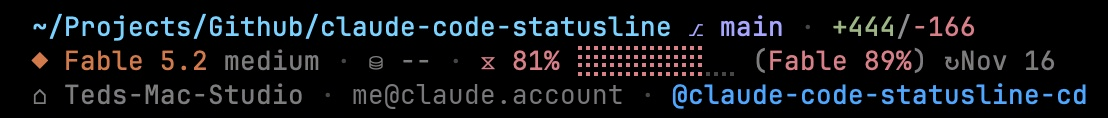
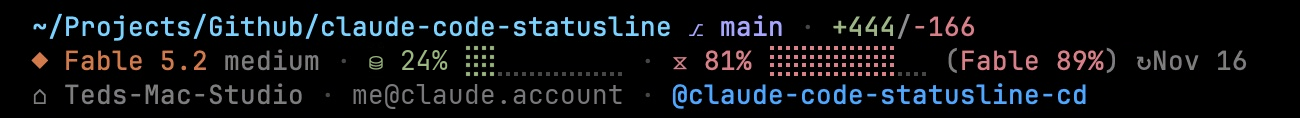
docs+perf: desktop screenshot with context, mobile-friendly highlight, README brought in line
- Desktop screenshot now shows a context reading and bar, like the phone one.
- README: lead with mobile friendliness (links herdr), and bring the feature
  list, element table, customization and troubleshooting in line with the
  three-row layout, width fitting, the per-model weekly limit and accounts
  that report no 5-hour window.
- Remember each formatted reset time within a render: a narrow terminal
  rebuilds row 2 several times, and on bash 3.2 each format was a `date` fork
  (33 ms -> 26 ms per render at phone width on stock macOS bash).

Claude-Session: https://claude.ai/code/session_01DdSiv6bK9xfXWuZ78hcxgt

Changed region(s): [[0.0, 0.3814, 0.9819, 0.661], [0.0307, 0.7119, 0.9819, 0.9153], [0.0, 0.1017, 0.8899, 0.3559]]

diff --git a/README.md b/README.md
@@ -2,13 +2,15 @@
 
 A compact, three-row statusline for [Claude Code](https://claude.com/claude-code) written in bash. Shows where you are, what's running and how much is left, and who you are: which computer, which Claude account, which session.
 
+**Mobile friendly.** The rows fit themselves to the terminal's width, so the same statusline stays readable from a wide desktop terminal down to a phone — for example when you check on a session from [herdr](https://herdr.dev)'s mobile app. Nothing is cut off: rows shorten, then wrap.
+
 ## Screenshots
 
 **Desktop**
 
 ![Three-row statusline in a desktop terminal: folder, branch and lines changed; then the model and effort, context, and the weekly usage bar with the model's own weekly limit in parentheses and the reset date; then the computer, the account and the session's messaging name](screenshot.png)
 
-A wide terminal gets the three rows in full: the whole path, the 10-cell usage bar, and the computer, account and messaging name together on the last row. This account has no 5-hour window, so only the weekly gauge shows — past 80%, so it's red — with the model's own weekly limit in parentheses. Context reads `--` because the session hasn't had its first response yet.
+A wide terminal gets the three rows in full: the whole path, the 10-cell bars, and the computer, account and messaging name together on the last row. This account has no 5-hour window, so only the weekly gauge shows — past 80%, so it's red — with the model's own weekly limit in parentheses.
 
 **Phone**
 
@@ -40,17 +42,18 @@ On a narrow terminal — a phone, a small split — the rows adapt instead of be
 
 ## Features
 
+- **Mobile friendly** — the statusline reads the terminal width Claude Code gives it and fits each row to it, so it works in a phone-width terminal such as [herdr](https://herdr.dev)'s mobile app as well as on a desktop. See *Three rows, fitted to the terminal* below for the steps, and the phone screenshot above for the result.
 - **Computer and account** — row 3 opens with the computer's name (`⌂ Teds-Mac-Studio`) and the email of the Claude account that's logged in, so sessions on different machines or different logins are never mistaken for each other. The computer name is bash's own `$HOSTNAME` trimmed at the first dot (no process started); the email comes from the same `~/.claude.json` lookup that already keys the rate limits by account, so it costs nothing extra and follows a `/login` within 5 seconds. With API-key auth there's no account to show and the segment is skipped. `CLAUDE_SL_HOST` and `CLAUDE_SL_ACCOUNT_LABEL` override what's displayed (set either to an empty string to hide it); `CLAUDE_SL_IDENTITY=0` hides both — handy before a screen share.
 - **Messaging name** — the session's name that other Claude Code sessions use to message it (`@loretta-76`, `@claude-code-statusline-d4`) ends row 3 — reference info you look up when you need it. Claude Code doesn't put it in the statusline payload, so it's read from the session's own record in `~/.claude/sessions/<pid>.json` (matched on `sessionId`; `CLAUDE_CONFIG_DIR` relocates it). The `@` marks it as an address. Older versions that don't write a name fall back to the first 8 characters of the session UUID, shown as `#abc12345` — `#` for an id you can't message.
 - **Update-ready indicator** — the version is hidden while you're up to date. When a newer Claude Code is installed than the one running, a green `v2.1.297 ↑` appears at the end of row 2: the version a restart will bring. Detected by reading the versioned symlink target, no subprocess spawn. Installs whose `claude` symlink doesn't end in a version (npm, Homebrew) show no indicator.
 - **Graceful degradation** — every element is conditional. If a field is missing from the input JSON (older Claude Code versions, pending data before the first API response, etc.), the section is silently skipped rather than showing `null` or `0`. A field of an unexpected *type* is treated the same way, one field at a time, so a payload change in a future Claude Code version can't blank the rest of the line. If `jq` itself can't be found, the statusline says so instead of rendering empty gauges.
 - **Worktree-aware location** — inside a linked git worktree, an `↳ wt-name` label sits between the directory and the branch (`~/repo ↳ wt-name ⎇ feat`); the main checkout shows just the directory and branch. The label is skipped when the folder already ends in that name (`~/…/worktree02 ⎇ feat`, not `~/…/worktree02 ↳ worktree02 ⎇ feat`). Detection is from the worktree's git-dir, so it works however the worktree was created, but the label is the checkout directory's own name — git's internal worktree id is a sanitized, de-duplicated basename that can degrade to `0` or `-`.
 - **Color-coded progress bars** — 10-cell braille blocks (`⣿⣀`) at 10% increments for context usage and both rate windows, with the percentage to the left: green under 50%, yellow 50–79%, red 80% and up. Only the used cells take the color; the empty track is dark grey, so a low reading is a short stub rather than a full-width colored line. The gap-free fill mirrors Claude Code's own `/usage` bars.
-- **Both rate windows** — the 5-hour session window (`⏱`) and the 7-day weekly window (`⧖`) each get their own bar and reset time. Either window is rendered only when Claude Code sends it (they can be independently absent), so the weekly segment simply doesn't appear until there's data. Inspired by [claude-pace](https://github.com/Astro-Han/claude-pace).
+- **Both rate windows** — the 5-hour session window (`⏱`) and the 7-day weekly window (`⧖`) each get their own bar and reset time. Either window is rendered only when the account has it: they can be independently absent, and some plans report a weekly limit with no 5-hour window at all, in which case only the weekly gauge shows. The statusline never looks at the plan — it shows whichever windows are reported. Inspired by [claude-pace](https://github.com/Astro-Han/claude-pace).
 - **Absolute reset times** — each rate window shows *when* it resets, like the `/usage` view: `↻8:10pm` if it resets later today, `↻Jun 1` if it resets on another day. In a locale with no am/pm (German, French, …) the time is 24-hour, `↻20:10`. No pacing or projection math — just how much you've used and when it comes back.
 - **Rate limits synced across sessions** — Claude Code only refreshes `rate_limits` after an API call, so a fresh session (or a fresh login) shows nothing and an idle session keeps replaying whatever it last saw — a window that already reset, a pegged 100%, the numbers from before a limit boost. Nothing in the payload says *when* those numbers were fetched, so the script measures it: a process only changes its rate limits when a new response arrives, so a value that differs from what that session reported on its previous tick was fetched now, and an unchanged value is a replay that keeps its original fetch time. Every session records what it last reported (per session id) and publishes its observation to a tiny shared file; every render shows whichever observation — this payload's or the shared file's — was fetched later. Freshness is never guessed from the numbers themselves (an earlier "usage only grows" rule pinned a spent window at 100% after Anthropic boosted the limit, while `/usage` showed 1%). A new session inherits the last-known usage and reset time immediately, a stale session re-syncs the moment any other session gets fresh data, and once a window's `resets_at` passes it rolls over to `0%` instead of freezing at its final stale value.
 - **Per-account rate limits** — rate limits belong to a Claude account, and `/login` switches every running session at once, so the shared snapshot is keyed by the account in `~/.claude.json`. Sessions started with different `CLAUDE_CONFIG_DIR`s are separate logins running side by side: each resolves its own account, and reads its own profile's token for the usage endpoint. Log into another account and the bars start clean (`⏱ --`) instead of showing the account you just left; log back in and that account's own last-known usage is restored immediately rather than waiting for the next API response. Claude Code keeps rate limits in memory per process, so sessions that were already running keep replaying the previous account's numbers until their next API call — the per-session record remembers which account those numbers were fetched under, so an unchanged replay after a switch is attributed to the old account and ignored: it never renders and never poisons the new account's snapshot. The session's first *changed* response after the switch is trusted as the new account's. (A payload from a session with no record yet that matches another account's snapshot exactly — same used% *and* the same reset second — is caught the same way.)
-- **Idle-proof usage** — header-fed numbers can only change when some session makes an API call, so if every session is idle when Anthropic boosts or resets a limit nothing would move. The statusline therefore also asks the same endpoint the `/usage` view reads (`GET https://api.anthropic.com/api/oauth/usage`, using the OAuth token Claude Code already holds) — but only when the newest observation on hand is older than 3 minutes, so an active session never triggers it (headers refresh every turn) and an idle one costs a single call per interval. The call runs detached in the background, never blocks a tick, is shared across sessions with a lock, backs off for 10 minutes after any failure (1 minute while the token is merely expired), and its result is just one more timestamped observation that wins only when it is genuinely the newest. Disable with `CLAUDE_SL_USAGE_TTL=0`.
+- **Idle-proof usage** — header-fed numbers can only change when some session makes an API call, so if every session is idle when Anthropic boosts or resets a limit nothing would move. The statusline therefore also asks the same endpoint the `/usage` view reads (`GET https://api.anthropic.com/api/oauth/usage`, using the OAuth token Claude Code already holds) — but only when the newest observation on hand is older than 3 minutes, so an active session never triggers it (headers refresh every turn) and an idle one costs a single call per interval. (The one exception: an account with a per-model weekly limit is asked every 5 minutes even while active, because that figure comes from nowhere else.) The call runs detached in the background, never blocks a tick, is shared across sessions with a lock, backs off for 10 minutes after any failure (1 minute while the token is merely expired), and its result is just one more timestamped observation that wins only when it is genuinely the newest. Disable with `CLAUDE_SL_USAGE_TTL=0`.
 - **Per-model weekly limit** — some accounts have a weekly allowance for one model family on top of the all-models one, and it can run out first. Claude Code's statusline payload doesn't carry it, but the usage endpoint does, so when the model you're running has one it rides inside the weekly segment in parentheses, in its own threshold color: `⧖ 81% ⣿⣿⣿⣿⣿⣿⣿⣿⣀⣀ (Fable 89%) ↻Nov 16`. The two normally reset together, so the one `↻` covers both; if the model's limit resets at a different time, that time is shown inside the parentheses. Because the endpoint is the only source, an account with such a limit is re-asked every 5 minutes even while active, so the figure can lag by up to that long.
 - **Clamped percentages** — context and rate usage can come off the wire fractionally over 100 when fully spent (rendering as `101%`); everything is clamped to 0–100. Rounding doesn't depend on the locale (`printf` rejects `42.6` where the decimal separator is a comma).
 - **Compact model name** — strips the `Claude ` prefix and collapses any `(1M context)` / `(200K context)` annotation to a bare size token, so `Claude Opus 4.7 (1M context)` shows as `Opus 4.7 1M` and `Claude Sonnet 4.6` as `Sonnet 4.6`.
@@ -77,9 +80,9 @@ Row 1 holds the directory through lines changed, row 2 the model through the pen
 | **Effort level** | `high` | grey | Right after the model name (`◆ Opus 4.7 1M high`), only when an effort level is set. |
 | **Output style** | `☰Explanatory` | grey | After the effort level (`◆ Opus 5.5 medium ☰Learning`). Hidden when the style is `default`. |
 | **Fast mode** | `fast` | grey | After the effort level, only while fast mode is on. |
-| **Context usage** | `⛁ 23% ⣿⣿⣀⣀⣀⣀⣀⣀⣀⣀` | green / yellow / red | Percent of the context window consumed by the current conversation, with a 10-cell bar. Shows `⛁ --` before the first API response. |
+| **Context usage** | `⛁ 23% ⣿⣿⣀⣀⣀⣀⣀⣀⣀⣀` | green / yellow / red | Percent of the context window consumed by the current conversation, with a 10-cell bar (5 cells, then none, as the terminal narrows). Shows `⛁ --` before the first API response. |
 | **5-hour window** | `⏱ 74% ⣿⣿⣿⣿⣿⣿⣿⣀⣀⣀ ↻8:10pm` | green / yellow / red | Percent of the 5-hour rate limit used (clamped to 100). Claude Pro/Max only. Before the first API response it inherits the last-known snapshot from any other session **on the same account**; shows `⏱ --` only when nothing is known about either window (including right after switching accounts). When the weekly window is known but the account has no 5-hour window — the usage endpoint reports it as `null` — the segment is left out. Appends the reset time when `resets_at` is present — see below. |
-| **7-day window** | `⧖ 36% ⣿⣿⣿⣿⣀⣀⣀⣀⣀⣀ ↻Jun 1` | green / yellow / red | Percent of the 7-day (weekly) rate limit used, read from `rate_limits.seven_day` (clamped to 100). Same bar, reset time, and cross-session sync as the 5-hour window, distinguished by the `⧖` glyph. Silently skipped when the weekly window is absent from both the payload and the shared snapshot. |
+| **7-day window** | `⧖ 36% ⣿⣿⣿⣿⣀⣀⣀⣀⣀⣀ ↻Jun 1` | green / yellow / red | Percent of the 7-day (weekly) rate limit used, read from `rate_limits.seven_day` (clamped to 100). Same bar, reset time, and cross-session sync as the 5-hour window, distinguished by the `⧖` glyph. Silently skipped when the weekly window is absent from both the payload and the shared snapshot. The running model's own weekly limit, if the account has one, appears in parentheses between the bar and the reset time. |
 | **Model weekly limit** | `(Fable 89%)` | green / yellow / red | Inside the 7-day segment, between the bar and the reset time. The running model's own weekly limit, from the usage endpoint's `weekly_scoped` entries. Only shown when the account has one for this model; needs the usage endpoint (not `CLAUDE_SL_USAGE_TTL=0`). |
 | **Reset time** | `↻8:10pm` / `↻Jun 1` | grey | When the rate window resets, read from `resets_at`. Shows the clock time if it resets later today, otherwise the month + day. Hidden if the reset is further out than the window itself. If the reset has already *passed*, the window rolled over — the segment shows `0%` with no `↻` (the new window's anchor is unknown until the next API response). |
 | **Pending update** | `v2.1.297 ↑` | green | Only when the installed Claude Code differs from the running one; shows the installed version, which a restart switches to. Hidden otherwise. |
@@ -130,7 +133,7 @@ Restart Claude Code (or open a new session) and the statusline should appear at 
 
 ### Testing
 
-A test suite covering 105 checks (full payloads, boundary values, missing fields, model-name shortening, braille bars, absolute reset times, percentage clamping, cross-session rate sync, boosted/reset limits, the usage endpoint (fixture-fed, non-blocking, backoff), per-account rate isolation, the weekly window, worktree labelling, lines-since-fork with a stale local `main`, instant refresh on branch switch, stacked branches under every parent convention (including the creation reflog, in a linked worktree, and after merging `main`), rapid redraws, performance, and portability: comma-decimal and no-am/pm locales, wrong-shaped payloads, a missing or shimmed `jq`, npm/Homebrew installs, very deep paths, side-by-side `CLAUDE_CONFIG_DIR` profiles, shared or unusable temp dirs, the identity row, and fitting to wide, medium and phone widths) is included:
+A test suite covering 105 checks (full payloads, boundary values, missing fields, model-name shortening, braille bars, absolute reset times, percentage clamping, cross-session rate sync, boosted/reset limits, the usage endpoint (fixture-fed, non-blocking, backoff), per-account rate isolation, the weekly window, worktree labelling, lines-since-fork with a stale local `main`, instant refresh on branch switch, stacked branches under every parent convention (including the creation reflog, in a linked worktree, and after merging `main`), rapid redraws, performance, and portability: comma-decimal and no-am/pm locales, wrong-shaped payloads, a missing or shimmed `jq`, npm/Homebrew installs, very deep paths, side-by-side `CLAUDE_CONFIG_DIR` profiles, shared or unusable temp dirs, the identity row, and fitting to wide, medium and phone widths, an account with no 5-hour window, and the per-model weekly limit) is included:
 
 ```sh
 bash ~/claude-statusline/test-statusline.sh
@@ -151,7 +154,7 @@ All the meaningful knobs are in the top of `statusline-command.sh`:
 - **Rate snapshot location** — every cache lives in `$TMPDIR` when that directory is private to you (macOS). Where the temp dir is shared — `$TMPDIR` unset on Linux, or pointing at a sticky directory like `/tmp` — they go in a `claude-sl-<uid>` subdirectory (mode 700, used only if you own it), and if the temp dir is missing or read-only, in `${XDG_CACHE_HOME:-~/.cache}/claude-sl`. The shared cross-session rate file is `claude-sl-rate-<account-uuid>` (used%, reset time, and fetch time for each window), next to a `claude-sl-account` file (one per `CLAUDE_CONFIG_DIR`) caching which account is logged in (5-second TTL, so a `/login` is picked up almost immediately) and one `claude-sl-seen-<session-id>` record per session holding what that session last reported and when it was fetched. Set `CLAUDE_SL_CACHE_DIR` to move all of them (the test suite uses this for isolation). Delete a snapshot to reset the sync state for that account. Logged out — or authenticating with an API key, which has no subscription rate limits — falls back to the unsuffixed `claude-sl-rate`.
 - **Account identity** — read from `oauthAccount` in `$CLAUDE_CONFIG_DIR/.claude.json` (defaults to `~/.claude.json`). Set `CLAUDE_SL_ACCOUNT` to pin it yourself and skip that lookup entirely (row 3 then shows an account only if `CLAUDE_SL_ACCOUNT_LABEL` is set).
 - **Row 3** — `CLAUDE_SL_HOST="Studio"` replaces the computer name, `CLAUDE_SL_ACCOUNT_LABEL="work"` replaces the email, and `CLAUDE_SL_IDENTITY=0` hides both, leaving just the messaging name.
-- **Usage endpoint** — `CLAUDE_SL_USAGE_TTL` is the minimum age (seconds) of the newest observation before the statusline asks `api.anthropic.com/api/oauth/usage`; default `180`, and `0` disables the endpoint entirely (the statusline then relies on headers alone). Polling faster than that is known to get the endpoint rate-limited. Results are cached at `$TMPDIR/claude-sl-usage-<account-uuid>` (a `.err` sibling holds the 10-minute backoff after a failure). The OAuth token is read from the macOS Keychain item `Claude Code-credentials` (`Claude Code-credentials-<hash>` when `CLAUDE_CONFIG_DIR` is set, the per-profile item Claude Code itself uses; or `$CLAUDE_CONFIG_DIR/.credentials.json`, default `~/.claude/.credentials.json`) inside the background job only, is sent only to that endpoint, and is never written anywhere. `CLAUDE_SL_USAGE_TOKEN` and `CLAUDE_SL_USAGE_URL` override both (the test suite uses them to fetch from a local fixture). Tokens from `claude setup-token` lack the `user:profile` scope the endpoint needs — sign in with the browser flow for it to work.
+- **Usage endpoint** — `CLAUDE_SL_USAGE_TTL` is the minimum age (seconds) of the newest observation before the statusline asks `api.anthropic.com/api/oauth/usage`; default `180`, and `0` disables the endpoint entirely (the statusline then relies on headers alone, and the per-model weekly limit is not shown). Polling faster than that is known to get the endpoint rate-limited. Results are cached at `$TMPDIR/claude-sl-usage-<account-uuid>` (a `.err` sibling holds the 10-minute backoff after a failure). The OAuth token is read from the macOS Keychain item `Claude Code-credentials` (`Claude Code-credentials-<hash>` when `CLAUDE_CONFIG_DIR` is set, the per-profile item Claude Code itself uses; or `$CLAUDE_CONFIG_DIR/.credentials.json`, default `~/.claude/.credentials.json`) inside the background job only, is sent only to that endpoint, and is never written anywhere. `CLAUDE_SL_USAGE_TOKEN` and `CLAUDE_SL_USAGE_URL` override both (the test suite uses them to fetch from a local fixture). Tokens from `claude setup-token` lack the `user:profile` scope the endpoint needs — sign in with the browser flow for it to work.
 - **Reset time format** — `build_rate_segment` formats the reset with `printf '%(…)T'` (`date -r` on bash 3.2): `%I:%M%p` within a day (`%H:%M` when the locale has no am/pm), `%b %e` further out. Adjust the format strings to taste.
 
 ## How the Update Indicator Works
@@ -170,7 +173,7 @@ Note that the symlink approach only works for Claude Code installed via the nati
 ## Other Terminals and Agent Hosts
 
 - **Any terminal emulator** (Ghostty, iTerm2, WezTerm, Alacritty, Kitty, Terminal.app, tmux): the output is plain text with 256-color ANSI codes, so it renders anywhere Claude Code does. You need a font with the braille (`⣿⣀`) and symbol (`⛁ ⏱ ⧖ ⎇ ◆`) glyphs.
-- **[herdr](https://herdr.dev)** (a multiplexer for running many coding agents side by side): every pane is a real terminal running Claude Code, so this statusline renders as usual — including in herdr's phone app, where the pane is only about 50 columns wide and the rows compact and wrap as described under Layout. herdr's sidebar is separate. It accepts short plain-text values via `herdr pane report-metadata` (80 characters max, no ANSI), so you'd feed it a summary from a hook, not this script's output.
+- **[herdr](https://herdr.dev)** (a multiplexer for running many coding agents side by side): every pane is a real terminal running Claude Code, so this statusline renders as usual — including in herdr's mobile app, where the pane is only about 50 columns wide and the rows compact and wrap as described under Layout (see the phone screenshot at the top). herdr's sidebar is separate. It accepts short plain-text values via `herdr pane report-metadata` (80 characters max, no ANSI), so you'd feed it a summary from a hook, not this script's output.
 - **[pi](https://pi.dev)** (a different coding agent): pi has no `statusLine` command setting. Its footer is driven by TypeScript extensions (`ctx.ui.setStatus` / `ctx.ui.setFooter`). You could port the layout by writing an extension that builds a Claude-Code-shaped payload and runs this script. The rate limits, messaging name and update check rely on Claude Code's own files and OAuth token, though, so they'd stay empty there.
 
 ## Troubleshooting
@@ -178,6 +181,8 @@ Note that the symlink approach only works for Claude Code installed via the nati
 **Statusline appears twice in the terminal or leaks into scrollback.** This is a known Claude Code rendering bug ([issue #17519](https://github.com/anthropics/claude-code/issues/17519)) affecting iTerm2 and Ghostty. It's caused by the React Ink renderer not fully clearing the old statusline position during content reflow. Not fixable from the script side.
 
 **Tests fail with multi-line output.** If the test suite reports `LINE COUNT: 5 rows (expected ≤ 4)`, something is emitting to stderr. Common cause: a jq type error on an unexpected field shape. Run the script manually with a sample payload and `2>&1 | cat -v` to see the error.
+
+**No `⏱` gauge at all, only the weekly one.** The account has no 5-hour window right now — the usage endpoint reports it as `null`, which some plans do. The gauge appears by itself as soon as a 5-hour window is reported.
 
 **Progress bars show `⛁ --` and `⏱ --` instead of percentages.** This is normal before the first API response in a brand-new session — the `context_window.used_percentage` and `rate_limits.five_hour.used_percentage` fields aren't populated yet. Context always waits for the first message (it's per-conversation), but the rate bars inherit the last-known snapshot from any other recent session on the same account, and failing that the background fetch from the usage endpoint fills them in within a few seconds of the first tick. `⏱ --` persisting means that fetch isn't working: the account has no published snapshot (right after a reboot, since the snapshot lives in `$TMPDIR`, or right after switching accounts) **and** the endpoint can't be reached — usually a token from `claude setup-token` (missing the `user:profile` scope; sign in with the browser flow), `CLAUDE_SL_USAGE_TTL=0`, or a `$TMPDIR/claude-sl-usage-<account>.err` backoff marker from a recent failure (delete it to retry immediately). It always fills in as soon as the account gets its first API response.
 
